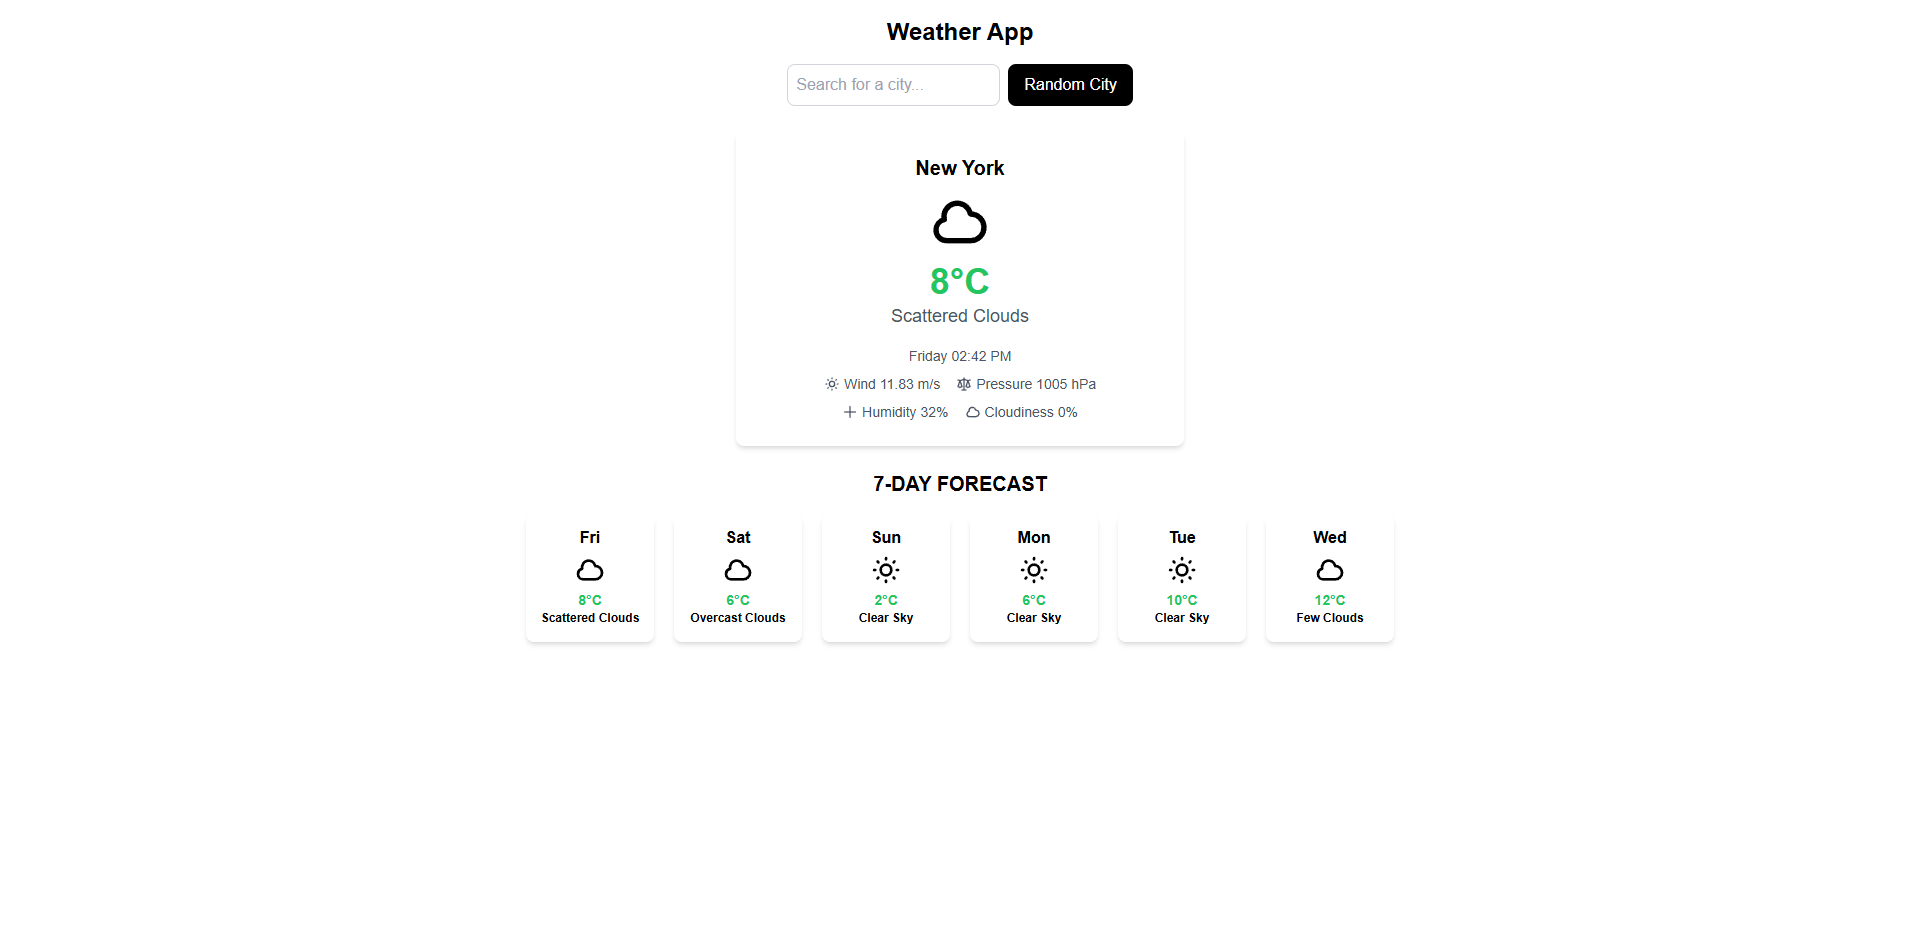
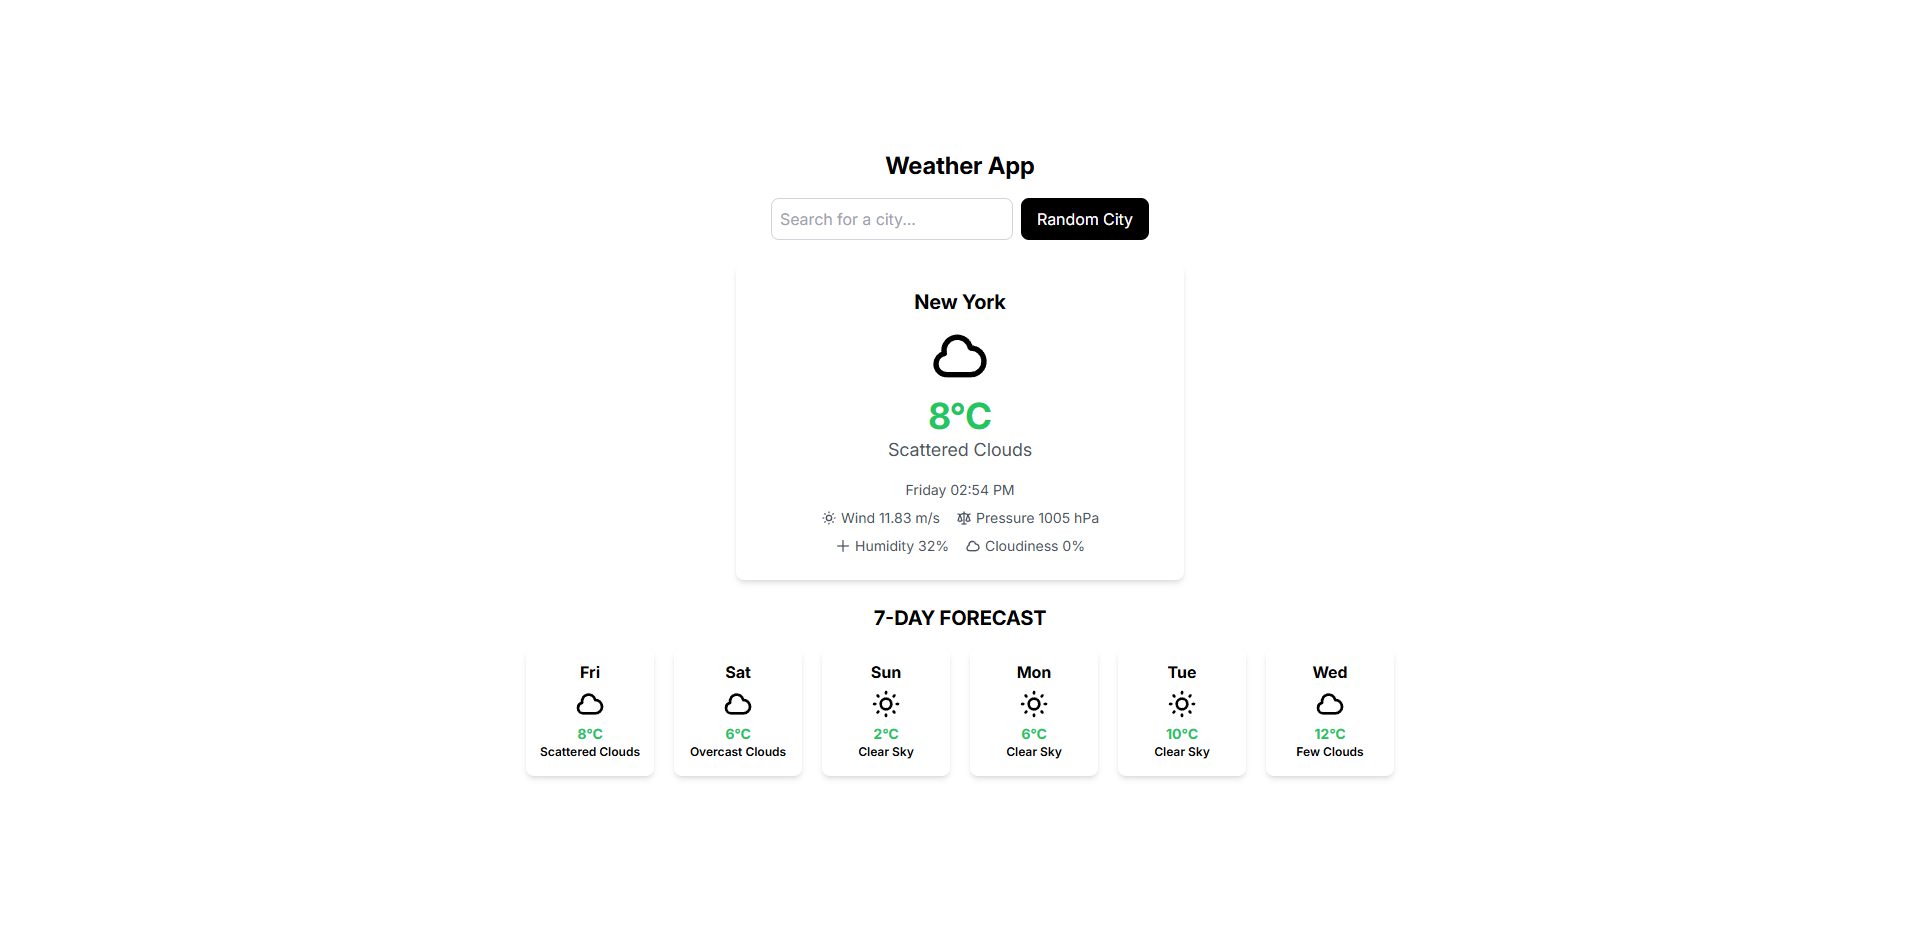
Weather App 🌤

diff --git a/src/App.tsx b/src/App.tsx
@@ -141,29 +141,35 @@ const App: React.FC = () => {
   }, []);
 
   return (
-    <div className="container mx-auto p-4">
-      <h1 className="text-2xl font-bold mb-4 text-center">Weather App</h1>
-      <div className="flex justify-center gap-2 mb-6">
-        <SearchBar onSearch={handleSearch} />
-        <button
-          onClick={handleRandomCity}
-          className="bg-black text-white px-4 py-2 rounded-lg hover:bg-gray-800 transition-colors"
-        >
-          Random City
-        </button>
-      </div>
-      {loading && <p className="text-center">Loading...</p>}
-      {error && <p className="text-center text-red-500">{error}</p>}
-      <div className="max-w-md mx-auto">
-        {weatherData && <WeatherCard data={weatherData} />}
-      </div>
-      <div className="mt-6">
-        <h2 className="text-xl text-center font-bold mb-4 uppercase">7-Day Forecast</h2>
-        <div className="flex flex-col sm:flex-row gap-5 justify-center items-center">
-          {forecastData.slice(0, 7).map((day, index) => (
-            <ForecastCard key={index} data={day} />
-          ))}
-        </div>
+    <div className='flex justify-center items-center h-screen'>
+      <div className="container mx-auto p-4">
+        <header>
+          <h1 className="text-2xl font-bold mb-4 text-center">Weather App</h1>
+        </header>
+        <main>
+          <section className="flex justify-center gap-2 mb-6">
+            <SearchBar onSearch={handleSearch} />
+            <button
+              onClick={handleRandomCity}
+              className="bg-black text-white px-4 py-2 rounded-lg hover:bg-gray-800 transition-colors"
+            >
+              Random City
+            </button>
+          </section>
+          {loading && <p className="text-center">Loading...</p>}
+          {error && <p className="text-center text-red-500">{error}</p>}
+          <section className="max-w-md mx-auto">
+            {weatherData && <WeatherCard data={weatherData} />}
+          </section>
+          <section className="mt-6">
+            <h2 className="text-xl text-center font-bold mb-4 uppercase">7-Day Forecast</h2>
+            <div className="flex flex-col sm:flex-row gap-5 justify-center items-center">
+              {forecastData.slice(0, 7).map((day, index) => (
+                <ForecastCard key={index} data={day} />
+              ))}
+            </div>
+          </section>
+        </main>
       </div>
     </div>
   );
